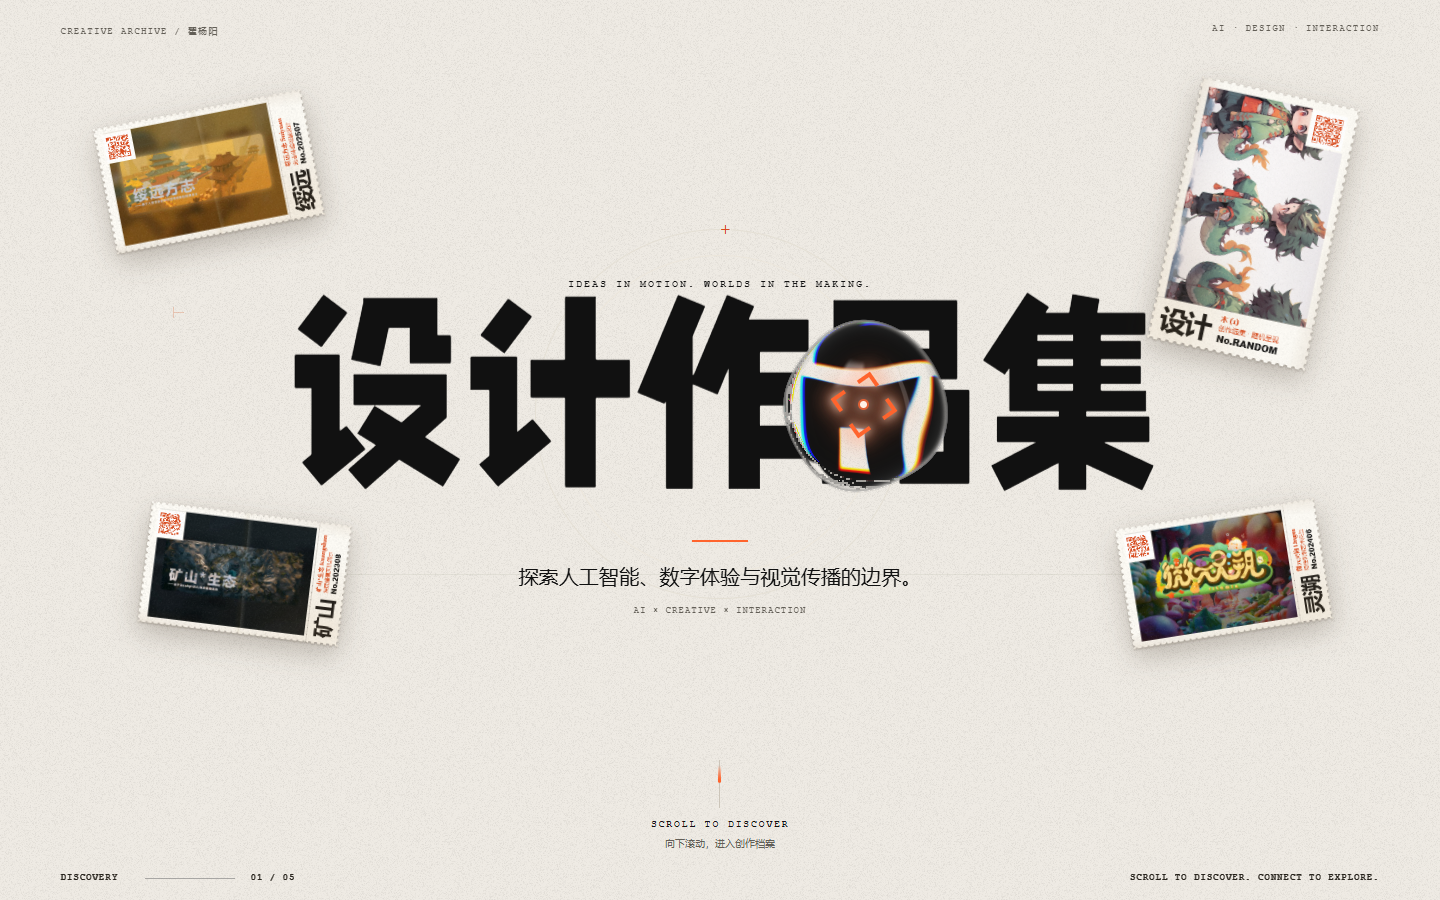
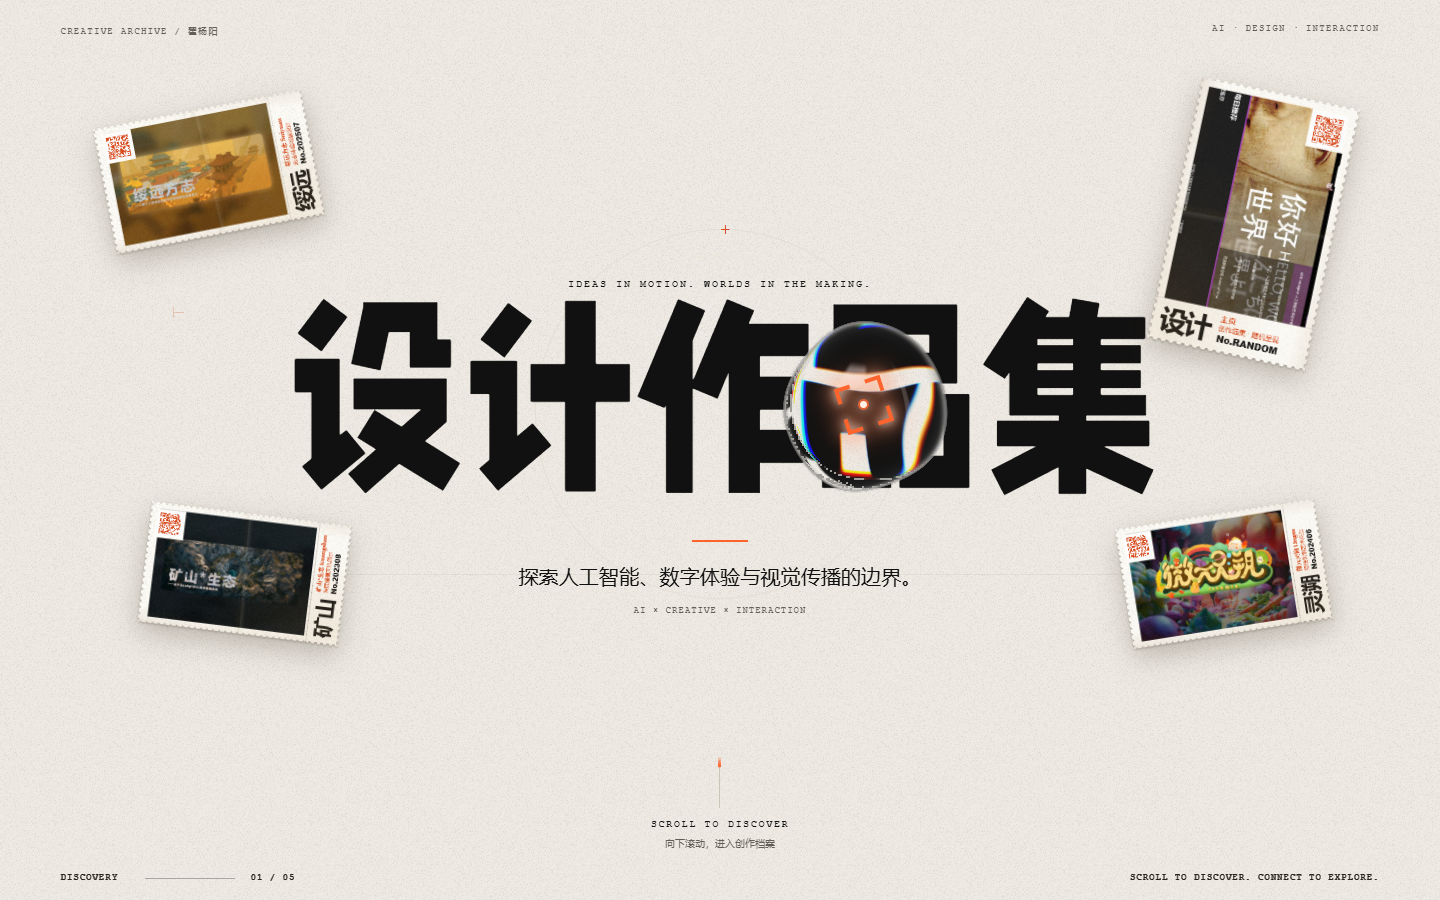
入场优化

diff --git a/New/js/components/FluidGlass.jsx b/New/js/components/FluidGlass.jsx
@@ -793,8 +793,8 @@ const FluidGlass = ({
         ctx.textBaseline = 'alphabetic';
         if ('letterSpacing' in ctx) ctx.letterSpacing = `${-0.03 * px}px`;
         const metrics = ctx.measureText('Hg');
-        const ascent = metrics.actualBoundingBoxAscent || px * 0.72;
-        const descent = metrics.actualBoundingBoxDescent || px * 0.2;
+        const ascent = metrics.fontBoundingBoxAscent || metrics.actualBoundingBoxAscent || px * 0.72;
+        const descent = metrics.fontBoundingBoxDescent || metrics.actualBoundingBoxDescent || px * 0.2;
         const lineHeight = px * 1.02;
         const total = lineHeight * (lines.length - 1) + ascent + descent;
         let y = (height - total) / 2 + ascent;
@@ -868,9 +868,9 @@ const FluidGlass = ({
 
     const resize = () => {
       const s = settingsRef.current;
-      const rect = container.getBoundingClientRect();
-      const cssWidth = Math.max(1, rect.width);
-      const cssHeight = Math.max(1, rect.height);
+      // Entrance transforms affect visual bounds, not the canvas layout size.
+      const cssWidth = Math.max(1, container.clientWidth);
+      const cssHeight = Math.max(1, container.clientHeight);
       const ratio = Math.min(
         window.devicePixelRatio || 1,
         s.maxRatio,

diff --git a/New/js/tests/glass-handoff.spec.ts b/New/js/tests/glass-handoff.spec.ts
@@ -1,0 +1,23 @@
+import {test,expect} from '@playwright/test';
+
+for (const width of [1440,375]) test(`glass handoff preserves canvas size ${width}`,async({page})=>{
+ await page.setViewportSize({width,height:900});
+ await page.goto('/Portfolio-YoungSliker/New/');
+ const host=page.locator('.hero-glass-title');
+ await expect(host).toHaveAttribute('data-title-ready','true');
+ const samples=await page.evaluate(async()=>{
+  const host=document.querySelector('.hero-glass-title')!;
+  const canvas=host.querySelector('canvas')!;
+  const samples:{w:number;h:number;complete:string|null}[]=[];
+  const start=performance.now();
+  await new Promise<void>(resolve=>{function frame(){
+   samples.push({w:canvas.width,h:canvas.height,complete:host.getAttribute('data-fold-complete')});
+   if(performance.now()-start<2400)requestAnimationFrame(frame);else resolve();
+  }requestAnimationFrame(frame)});
+  return samples;
+ });
+ expect(samples.some(s=>s.complete==='false')).toBe(true);
+ expect(samples.some(s=>s.complete==='true')).toBe(true);
+ expect(new Set(samples.map(s=>`${s.w}x${s.h}`)).size).toBe(1);
+ await expect(host.locator('.fluid-glass')).toHaveAttribute('data-text-rendered','true');
+});
